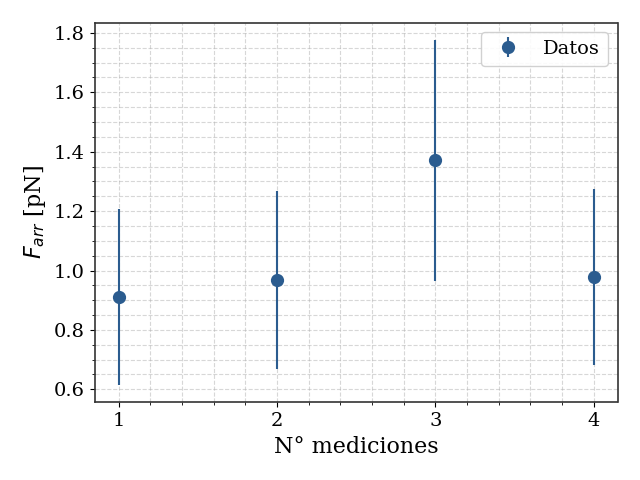
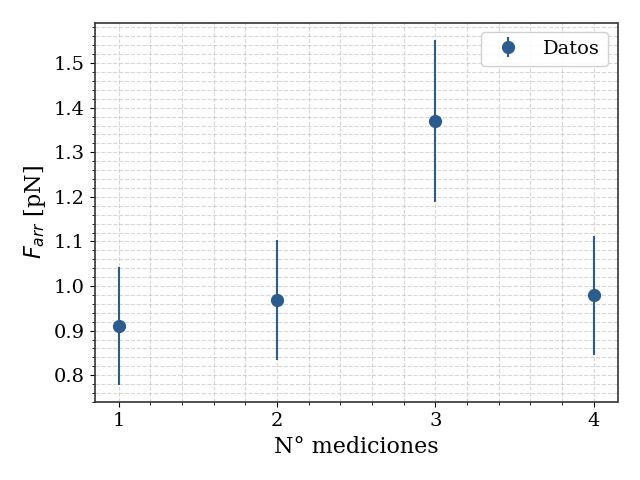
recalcule la fuerza de drag y sus errores

diff --git a/practica3/clase4/calculo_fuerza_drag.py b/practica3/clase4/calculo_fuerza_drag.py
@@ -58,12 +58,18 @@ print(f_d)
 d_cd = 0.5 * rho * (velocidad**2) * area_p
 d_v = c_d * rho * velocidad * area_p
 d_a = 0.5 * c_d * rho * (velocidad**2)
-fd_e = np.sqrt(((d_a * areap_e)**2) + ((d_v * v_e)**2) + ((d_cd * cd_e)**2)) # uN
+cov_cv = (-c_d/velocidad) * v_e**2                        # Cov(C_D, v)
+cov_ca = (-c_d/diametro) * (np.pi*diametro/2) * diam_e**2 # Cov(C_D, A), vía D
+
+var_F = ((d_cd*cd_e)**2 + (d_v*v_e)**2 + (d_a*areap_e)**2
+         + 2*d_cd*d_v*cov_cv + 2*d_cd*d_a*cov_ca)
+fd_e_cov = np.sqrt(var_F) * 1e6                          # pN
+#fd_e = np.sqrt(((d_a * areap_e)**2) + ((d_v * v_e)**2) + ((d_cd * cd_e)**2)) # uN
 f_d = f_d * 1e6 # pN
-fd_e = fd_e * 1e6 # pN
-print(fd_e/f_d * 100)
+print(np.mean(f_d))
+print(np.mean((fd_e_cov/f_d) * 100))
 fig4, ax4 = plt.subplots()
-ax4.errorbar(["1", "2", "3", "4",], f_d,yerr=fd_e, fmt="o", label="Datos")
+ax4.errorbar(["1", "2", "3", "4",], f_d,yerr=fd_e_cov, fmt="o", label="Datos")
 ax4.set_xlabel("N° mediciones")
 ax4.set_ylabel(r"$F_{arr}$ [pN]")
 ax4.legend()
@@ -79,6 +85,7 @@ print(f_d2)
 # tomemos un promedio
 f_p = np.mean(f_d2) # pN
 n = len(velocidad)
+n = 1
 diam_prom_e = np.sqrt(((dist_px*pix_e)**2)/n + ((np.mean(pixeles)*d_px_e)**2)) # um
 d_diam_prom = 3*np.pi*nu*np.mean(velocidad)*rho * 1e6 # pN um**-1
 d_vel_prom = 3*np.pi*nu*rho*np.mean(diametro) * 1e6 #  pN s um**-1
@@ -89,7 +96,7 @@ print(f"({f_p:.3f} +- {fp_e:.8f}) pN")
 
 #%% aca esta la misma cuenta pero mas prolijo
 n = len(velocidad)
-n = 20
+n = 1
 k = 3*np.pi*nu*rho * 1e6        # conversión a pN incluida (una sola vez)
 
 v_prom = np.mean(velocidad)     # um/s
@@ -107,7 +114,7 @@ dF_dv = k * D_prom              # pN/(um/s)
 
 fp_e = np.sqrt(dF_dD**2 * var_D + dF_dv**2 * var_v)   # pN
 print(f"({f_p:.3f} +- {fp_e:.3f}) pN")
-print("Error relativo de F_prom = "f"{fp_e*100 / f_p:.1f} %")
+print("Error relativo de F_prom = "f"{(fp_e/ f_p) * 100:.1f} %")
 #%% figura de la velocidad y fuerza juntas
 x = np.array([1, 2, 3, 4])
 desfase = 0.05  # con esto separo los puntos
@@ -120,7 +127,7 @@ ax5.set_xlabel("N° mediciones")
 ax5.set_ylabel(r"$v_{max}$ [$\mu$m $s^{-1}$]")#, color=color_v)
 ax5.set_ylim(23,37)
 
-#ax1.tick_params(axis='y')#, labelcolor=color_v)
+ax5.tick_params(axis='y')#, labelcolor=color_v)
 # Configuramos los números enteros en el eje X para que queden centrados
 ax5.set_xticks(x)
 ax5.set_xticklabels(["1", "2", "3", "4"])
@@ -128,16 +135,16 @@ ax5.set_xticklabels(["1", "2", "3", "4"])
 
 ax6 = ax5.twinx() # Crea el segundo eje compartiendo el X
 color_f = 'C1'    # Naranja
-ax6.errorbar(x + desfase, f_d, yerr=fd_e, fmt="o", color=color_f, 
+ax6.errorbar(x + desfase, f_d, yerr=fd_e_cov, fmt="o", color=color_f, 
              label=r"Datos $F_{arr}$")
 ax6.set_ylabel(r"$F_{arr}$ [pN]")#, color=color_f)
 ax6.set_ylim(0.5,1.9)
-#ax6.tick_params(axis='y')#, labelcolor=color_f)
+ax6.tick_params(axis='y')#, labelcolor=color_f)
 
 # --- Leyenda Unificada ---
 # Extraemos las referencias de ambos ejes para armar un solo recuadro de leyenda
-lineas_1, etiquetas_1 = ax1.get_legend_handles_labels()
-lineas_2, etiquetas_2 = ax2.get_legend_handles_labels()
+lineas_1, etiquetas_1 = ax5.get_legend_handles_labels()
+lineas_2, etiquetas_2 = ax6.get_legend_handles_labels()
 ax5.legend(lineas_1 + lineas_2, etiquetas_1 + etiquetas_2, loc='best')
 
 fig5.tight_layout()
